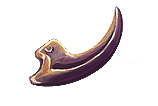
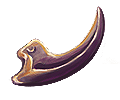
much more progress with puzzle 1

Changed region(s): [[0.075, 0.06, 0.875, 0.87]]

diff --git a/css/main.css b/css/main.css
@@ -1,1 +1,1 @@
-@font-face{font-family:Tiza;src:url("/fonts/Artifika-Regular.ttf")}body{margin:0;padding:0;font-size:100.1%;font-family:Tiza,sans-serif;background:black;color:white;text-rendering:optimizeLegibility}#wrapper{position:relative}#wrapper .container{margin:0 auto;overflow:hidden}.pull-left{float:left}.pull-right{float:right}#init-screen{width:976px;height:720px;padding:24px;background:url("/images/1/background.png") left top no-repeat;background-size:100% auto;position:relative}#init-screen h1,#init-screen h2{color:white;text-align:center;margin:0}#init-screen h1{font-size:1.5em;position:fixed;top:400px;width:976px;height:50px;line-height:50px}#init-screen #progress-bar{position:fixed;left:50%;top:450px;margin-left:-308px;width:617px;height:82px;background:url("/images/1/progress-bar.png") left top no-repeat;background-size:100% auto;z-index:100}#init-screen #blue-diamonds{position:fixed;left:50%;top:450px;margin-left:-308px;width:617px;height:82px;background:url("/images/1/blue-diamonds.png") left top no-repeat;background-size:100% auto;z-index:300}#init-screen #progress-indicator{width:510px;height:20px;position:fixed;left:50%;top:482px;margin-left:-255px;z-index:200}#init-screen #progress-indicator #inner-indicator{width:0;height:20px;background:#180909}#init-screen #progress-indicator h2{width:510px;height:20px;line-height:20px;font-size:.9em;font-weight:normal;margin-top:-20px}#spot-the-difference-puzzle{width:976px;height:720px;padding:24px;background:url("/images/2/background.png") left top no-repeat;background-size:100% auto;position:relative}#spot-the-difference-puzzle #level,#spot-the-difference-puzzle #time,#spot-the-difference-puzzle #score{position:absolute;width:100px;height:25px;color:white;text-align:center}#spot-the-difference-puzzle #level{top:17px;left:64px}#spot-the-difference-puzzle #time{top:25px;left:465px}#spot-the-difference-puzzle #score{top:17px;left:847px}#spot-the-difference-puzzle .item{position:absolute;background-position:left top;background-repeat:no-repeat;background-size:100% auto;width:104px;height:73px}#spot-the-difference-puzzle #jar{width:55px;heght:65px;background-image:url("/images/2/items/jar.png");left:915px;top:98px}#spot-the-difference-puzzle #symbol{width:70px;height:70px;background-image:url("/images/2/items/symbol.png");left:876px;top:216px}#spot-the-difference-puzzle #hawk-egg{width:75px;height:65px;background-image:url("/images/2/items/hawk-egg.png");left:568px;top:128px}#spot-the-difference-puzzle #root{width:85px;height:55px;background-image:url("/images/2/items/root.png");left:665px;top:133px}#spot-the-difference-puzzle #hourglass{width:40px;height:65px;background-image:url("/images/2/items/hourglass.png");left:760px;top:119px}#spot-the-difference-puzzle #herbs{width:100px;height:60px;background-image:url("/images/2/items/herbs.png");left:569px;top:225px}#spot-the-difference-puzzle #potion{width:50px;height:65px;background-image:url("/images/2/items/potion.png");left:688px;top:194px}#spot-the-difference-puzzle #globe{background-image:url("/images/2/items/globe.png");left:736px;top:190px}#spot-the-difference-puzzle #mineral-stone{background-image:url("/images/2/items/mineral-stone.png");left:563px;top:290px}#spot-the-difference-puzzle #butterfly{background-image:url("/images/2/items/butterfly.png");left:654px;top:298px}#spot-the-difference-puzzle #bird-skull{background-image:url("/images/2/items/bird-skull.png");left:736px;top:288px}#spot-the-difference-puzzle #amulet{width:227px;height:96px;background-image:url("/images/2/items/amulet.png");left:536px;top:376px}#spot-the-difference-puzzle #ogre-meat{background-image:url("/images/2/items/ogre-meat.png");left:720px;top:379px}#spot-the-difference-puzzle #claw{width:79px;height:53px;background-image:url("/images/2/items/claw.png");left:580px;top:476px}#spot-the-difference-puzzle #flower{width:67px;height:81px;background-image:url("/images/2/items/flower.png");left:720px;top:498px}#spot-the-difference-puzzle #vampiric-urne{background-image:url("/images/2/items/vampiric-urne.png");left:890px;top:498px}#spot-the-difference-puzzle #blue-crystal{background-image:url("/images/2/items/blue-crystal.png");left:538px;top:615px}#spot-the-difference-puzzle #mushroom{background-image:url("/images/2/items/mushroom.png");left:640px;top:605px}#spot-the-difference-puzzle #knife{width:130px;height: 43px;background-image:url("/images/2/items/knife.png");left:735px;top:646px}#spot-the-difference-puzzle #bag{background-image:url("/images/2/items/bag.png");left:870px;top:608px}#shuffle-puzzle{width:976px;height:720px;padding:24px;background:url("/images/3/background.png") left top no-repeat;background-size:100% auto}#shuffle-puzzle h1{text-align:center}#shuffle-puzzle .box{background:grey;position:relative}#shuffle-puzzle .box .ingredient{position:absolute;background:black;text-align:center}
+@font-face{font-family:Tiza;src:url("/fonts/Artifika-Regular.ttf")}body{margin:0;padding:0;font-size:100.1%;font-family:Tiza,sans-serif;background:black;color:white;text-rendering:optimizeLegibility}#wrapper{position:relative}#wrapper .container{margin:0 auto;overflow:hidden}.pull-left{float:left}.pull-right{float:right}#init-screen{width:976px;height:720px;padding:24px;background:url("/images/1/background.png") left top no-repeat;background-size:100% auto;position:relative}#init-screen h1,#init-screen h2{color:white;text-align:center;margin:0}#init-screen h1{font-size:1.5em;position:fixed;top:400px;width:976px;height:50px;line-height:50px}#init-screen #progress-bar{position:fixed;left:50%;top:450px;margin-left:-308px;width:617px;height:82px;background:url("/images/1/progress-bar.png") left top no-repeat;background-size:100% auto;z-index:100}#init-screen #blue-diamonds{position:fixed;left:50%;top:450px;margin-left:-308px;width:617px;height:82px;background:url("/images/1/blue-diamonds.png") left top no-repeat;background-size:100% auto;z-index:300}#init-screen #progress-indicator{width:510px;height:20px;position:fixed;left:50%;top:482px;margin-left:-255px;z-index:200}#init-screen #progress-indicator #inner-indicator{width:0;height:20px;background:#180909}#init-screen #progress-indicator h2{width:510px;height:20px;line-height:20px;font-size:.9em;font-weight:normal;margin-top:-20px}#spot-the-difference-puzzle{width:976px;height:720px;padding:24px;background:url("/images/2/background.png") left top no-repeat;background-size:100% auto;position:relative}#spot-the-difference-puzzle #level,#spot-the-difference-puzzle #time,#spot-the-difference-puzzle #score{position:absolute;width:100px;height:25px;color:white;text-align:center}#spot-the-difference-puzzle #level{top:17px;left:64px}#spot-the-difference-puzzle #time{top:25px;left:465px}#spot-the-difference-puzzle #score{top:17px;left:847px}#spot-the-difference-puzzle .item{position:absolute;background-position:left top;background-repeat:no-repeat;background-size:100% auto;width:104px;height:73px}#spot-the-difference-puzzle #jar{width:55px;heght:65px;background-image:url("/images/2/items/jar.png");left:915px;top:98px}#spot-the-difference-puzzle #symbol{width:70px;height:70px;background-image:url("/images/2/items/symbol.png");left:876px;top:216px}#spot-the-difference-puzzle #hawk-egg{width:75px;height:65px;background-image:url("/images/2/items/hawk-egg.png");left:568px;top:128px}#spot-the-difference-puzzle #root{width:85px;height:55px;background-image:url("/images/2/items/root.png");left:665px;top:133px}#spot-the-difference-puzzle #hourglass{width:40px;height:65px;background-image:url("/images/2/items/hourglass.png");left:760px;top:119px}#spot-the-difference-puzzle #herbs{width:100px;height:60px;background-image:url("/images/2/items/herbs.png");left:569px;top:225px}#spot-the-difference-puzzle #potion{width:50px;height:65px;background-image:url("/images/2/items/potion.png");left:688px;top:194px}#spot-the-difference-puzzle #globe{width:65px;height:60px;background-image:url("/images/2/items/globe.png");left:750px;top:197px}#spot-the-difference-puzzle #mineral-stone{width:100px;height:60px;background-image:url("/images/2/items/mineral-stone.png");left:565px;top:295px}#spot-the-difference-puzzle #butterfly{width:60px;height:60px;background-image:url("/images/2/items/butterfly.png");left:670px;top:304px}#spot-the-difference-puzzle #bird-skull{width:100px;height:60px;background-image:url("/images/2/items/bird-skull.png");left:738px;top:291px}#spot-the-difference-puzzle #amulet{width:160px;height:80px;background-image:url("/images/2/items/amulet.png");left:566px;top:384px}#spot-the-difference-puzzle #ogre-meat{width:90px;height:70px;background-image:url("/images/2/items/ogre-meat.png");left:730px;top:379px}#spot-the-difference-puzzle #claw{width:60px;height:65px;background-image:url("/images/2/items/claw.png");left:590px;top:476px}#spot-the-difference-puzzle #flower{width:60px;height:80px;background-image:url("/images/2/items/flower.png");left:720px;top:494px}#spot-the-difference-puzzle #vampiric-urne{width:100px;height:70px;background-image:url("/images/2/items/vampiric-urne.png");left:893px;top:501px}#spot-the-difference-puzzle #blue-crystal{width:60px;height:45px;background-image:url("/images/2/items/blue-crystal.png");left:560px;top:640px}#spot-the-difference-puzzle #mushroom{width:60px;height:73px;background-image:url("/images/2/items/mushroom.png");left:645px;top:606px}#spot-the-difference-puzzle #knife{width:130px;height: 43px;background-image:url("/images/2/items/knife.png");left:735px;top:646px}#spot-the-difference-puzzle #bag{background-image:url("/images/2/items/bag.png");left:870px;top:608px}#shuffle-puzzle{width:976px;height:720px;padding:24px;background:url("/images/3/background.png") left top no-repeat;background-size:100% auto}#shuffle-puzzle h1{text-align:center}#shuffle-puzzle .box{background:grey;position:relative}#shuffle-puzzle .box .ingredient{position:absolute;background:black;text-align:center}

diff --git a/css/sass/screens/_spotTheDifferencePuzzle.scss b/css/sass/screens/_spotTheDifferencePuzzle.scss
@@ -84,65 +84,81 @@
 		top: 194px;
 	}
 	#globe {
+		width: 65px;
+		height: 60px;
 		background-image: url('/images/2/items/globe.png');
-		left: 736px;	
-		top: 190px;
+		left: 750px;	
+		top: 197px;
 	}
 	#mineral-stone {
+		width: 100px;
+		height: 60px;
 		background-image: url('/images/2/items/mineral-stone.png');
-		left: 563px;	
-		top: 290px;
+		left: 565px;	
+		top: 295px;
 	}
 	#butterfly {
+		width: 60px;
+		height: 60px;
 		background-image: url('/images/2/items/butterfly.png');
-		left: 654px;	
-		top: 298px;
+		left: 670px;	
+		top: 304px;
 	}
 	#bird-skull {
+		width: 100px;
+		height: 60px;
 		background-image: url('/images/2/items/bird-skull.png');
-		left: 736px;	
-		top: 288px;
+		left: 738px;	
+		top: 291px;
 	}
 	#amulet {
-		width: 227px;
-		height: 96px;
+		width: 160px;
+		height: 80px;
 		background-image: url('/images/2/items/amulet.png');
-		left: 536px;	
-		top: 376px;
+		left: 566px;
+		top: 384px;
 	}
 	#ogre-meat {
+		width: 90px;
+		height: 70px;
 		background-image: url('/images/2/items/ogre-meat.png');
-		left: 720px;	
+		left: 730px;	
 		top: 379px;
 	}
 	#claw {
-		width: 79px;
-		height: 53px;
+		width: 60px;
+		height: 65px;
 		background-image: url('/images/2/items/claw.png');
-		left: 580px;	
+		left: 590px;	
 		top: 476px;
 	}
 	#flower {
-		width: 67px;
-		height: 81px;
+		width: 60px;
+		height: 80px;
 		background-image: url('/images/2/items/flower.png');
 		left: 720px;	
-		top: 498px;
+		top: 494px;
 	}
 	#vampiric-urne {
+		width: 100px;
+		height: 70px;
 		background-image: url('/images/2/items/vampiric-urne.png');
-		left: 890px;	
-		top: 498px;
+		left: 893px;	
+		top: 501px;
 	}
 	#blue-crystal {
+		width: 60px;
+		height: 45px;
 		background-image: url('/images/2/items/blue-crystal.png');
-		left: 538px;	
-		top: 615px;
+		left: 560px;	
+		top: 640px;
 	}
 	#mushroom {
+		width: 60px;
+		height: 73px;
 		background-image: url('/images/2/items/mushroom.png');
-		left: 640px;	
-		top: 605px;
+		left: 645px;	
+		top: 606px;
 	}
 	#knife {
 		width: 130px;

diff --git a/js/src/core/SpotTheDifferencePuzzle.js b/js/src/core/SpotTheDifferencePuzzle.js
@@ -47,11 +47,14 @@ define([], function() {
 		};
 		
 		this.getHTML = function() {
-			var html, i;
+			var html, i, level, score;
+			level = this.serviceManager.getService("Game").getLevel();
+			remainingTime = this.serviceManager.getService("Game").getRemainingTime();
+			score = this.serviceManager.getService("Game").getScore();;
 			html = '<div id="spot-the-difference-puzzle" class="container">';
-			html += '<div id="level">LEVEL 1</div>';
-			html += '<div id="time">03:49</div>';
-			html += '<div id="score">SCORE: 0</div>';
+			html += '<div id="level">LEVEL ' + level + '</div>';
+			html += '<div id="time">' + remainingTime + '</div>';
+			html += '<div id="score">SCORE: ' + score + '</div>';
 			for (i = 0; i < items.length; i += 1) {
 				html += '<div id="' + items[i] + '" class="item"></div>';
 			}

diff --git a/js/test/src/core/GameTest.js b/js/test/src/core/GameTest.js
@@ -11,9 +11,22 @@ define([
             test("Test Game.getScore/getLevel/getPuzzlesSolved", function() {
                 
                 game.startNew();
-				strictEqual(0, game.getScore());
-				strictEqual(1, game.getLevel());
-				strictEqual(0, game.getPuzzlesSolved());
+				strictEqual(game.getScore(), 0);
+				strictEqual(game.getLevel(), 1);
+				strictEqual(game.getPuzzlesSolved(), 0);
+
+            });
+			
+            test("Test Game.getRemainingTime", function() {
+
+                game.setBaseTime(45);
+				strictEqual(game.getRemainingTime(), "00:45");
+				
+                game.setBaseTime(90);
+				strictEqual(game.getRemainingTime(), "01:30");
+
+                game.setBaseTime(120);
+				strictEqual(game.getRemainingTime(), "02:00");
 
             });
 

diff --git a/js/src/core/Game.js b/js/src/core/Game.js
@@ -10,7 +10,7 @@ define([
 
 	return function() {
 		
-		var that = this, score, level, puzzlesSolved;
+		var that = this, baseTime = 60, score, level, puzzlesSolved;
 		
 		this.setServiceManager = function(m) {
 			this.serviceManager = m;
@@ -59,8 +59,19 @@ define([
 			return 3 + level * 2;
 		};
 		
+		this.setBaseTime = function(t) {
+			baseTime = t;
+		};
+		
 		this.getRemainingTime = function() {
-			return 60 + (level - 1) * 30;
+			var t, s, min, sec;
+			t = baseTime + (level - 1) * 30;
+			min = Math.floor(t / 60);
+			s = min < 10 ? "0" + min : min;
+			s += ":";
+			sec = t % 60;
+			s += sec < 10 ? "0" + sec : sec;
+			return s;
 		};
 		
 		this.getScore = function() {
